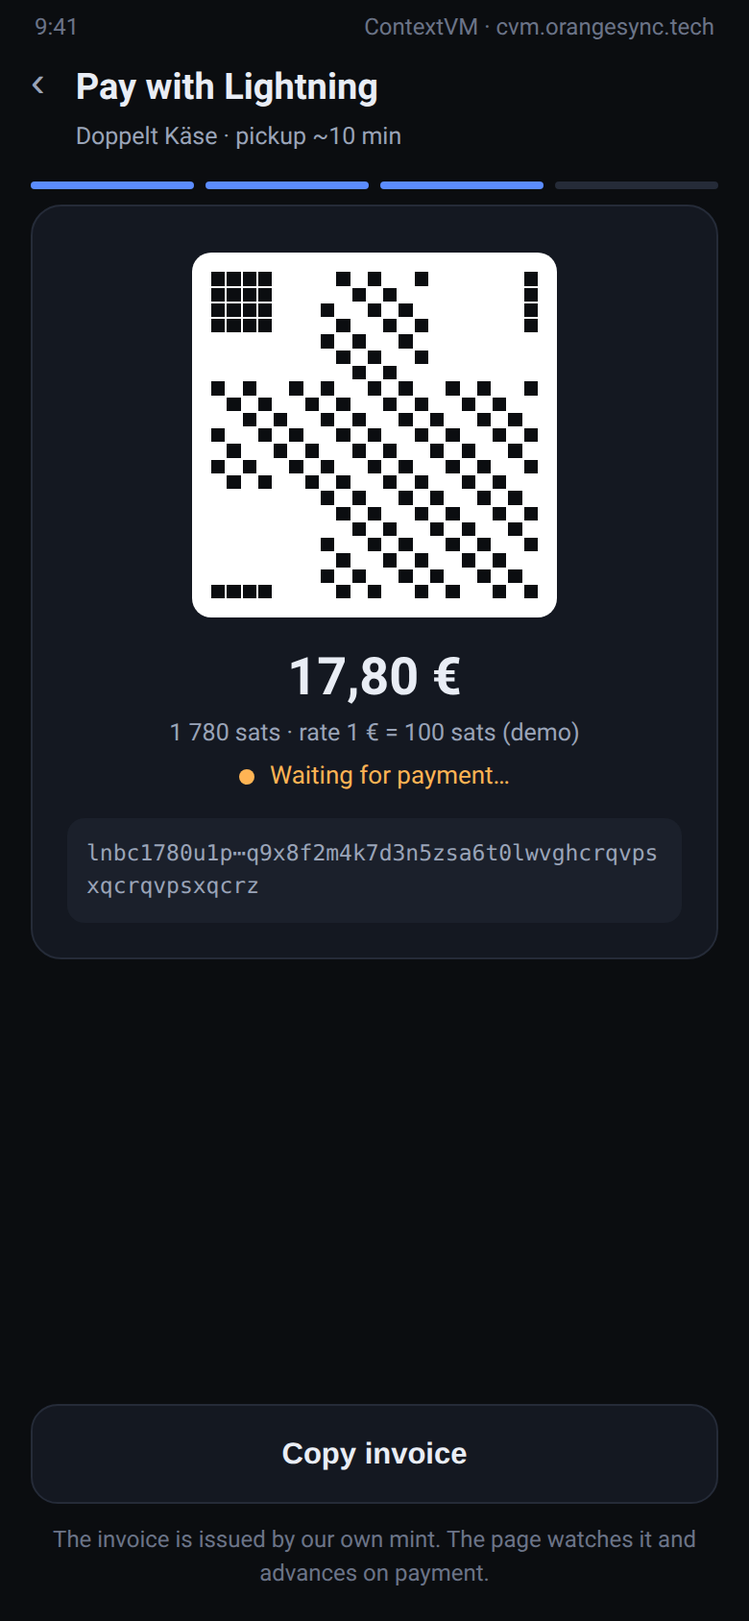
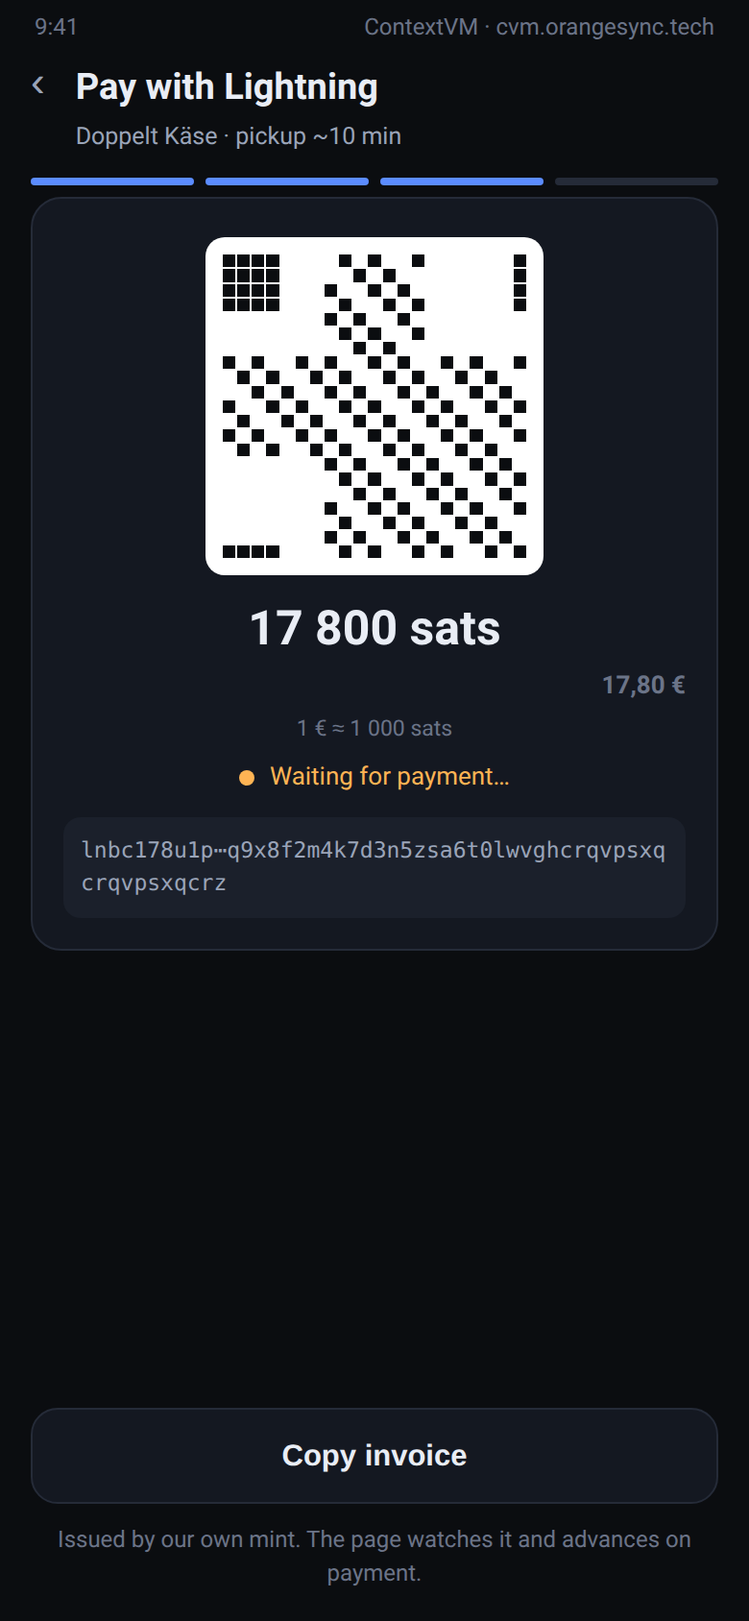
docs(ui): desktop mockup + sats-first pricing (operator decisions)
Two decisions from the operator, applied to the mockup before implementation:

1. Prices show BOTH amounts, SATS FIRST and the fiat second and smaller, everywhere
   a price appears - menu rows, basket lines, totals, the payment screen. One rate
   constant in one place, labelled "1 EUR ~ 1 000 sats". The venue's own EUR numbers
   stay the source of truth; the sats figure is a derived display of them.

2. A desktop layout, because the deployed page is read on both. The same flow as
   three panes: nav (services) / content (menu) / cart, and on the checkout screen
   cart / payment / what-happens-next. mockups-desktop.html, rendered by the same
   shot.sh at 1440x900 (2x).

Also fixed while rendering the desktop set: the helper was named `top`, and a
top-level `const top = ...` in a classic script throws "Identifier 'top' has already
been declared" (window.top is a non-configurable global). It failed SILENTLY - the
page was blank and the PNG was byte-identical for all three screens, which is how it
was caught. Renamed to `topbar` with a comment so it is not reintroduced.

shot.sh now renders all 9 screens in one run: 6 mobile + 3 desktop.

diff --git a/docs/ui-mockups/mockups-desktop.html b/docs/ui-mockups/mockups-desktop.html
@@ -1,0 +1,217 @@
+<!doctype html>
+<html lang="en"><head><meta charset="utf-8">
+<title>ContextVM services — usability mockup (desktop)</title>
+<style>
+  :root{
+    --bg:#0b0d10; --card:#141821; --card2:#1b202b; --line:#252b38; --rail:#0e1117;
+    --ink:#e9edf5; --dim:#9aa4b8; --dimmer:#6b7488;
+    --ok:#3ddc97; --warn:#ffb454; --accent:#5b8cff; --accent-ink:#fff;
+  }
+  *{box-sizing:border-box;-webkit-font-smoothing:antialiased}
+  html,body{margin:0;background:#05070a;color:var(--ink);
+    font:14.5px/1.5 -apple-system,BlinkMacSystemFont,"Segoe UI",Roboto,sans-serif}
+  .screen{width:1440px;height:900px;background:var(--bg);display:flex;flex-direction:column;overflow:hidden}
+  .top{height:52px;display:flex;align-items:center;gap:14px;padding:0 22px;border-bottom:1px solid var(--line);flex:none}
+  .brand{font-weight:700;letter-spacing:.2px}
+  .brand em{font-style:normal;color:var(--accent)}
+  .top .grow{flex:1}
+  .top .meta{color:var(--dimmer);font-size:12px}
+  .search{background:var(--card);border:1px solid var(--line);border-radius:9px;padding:8px 12px;color:var(--dim);font-size:13px;width:280px}
+  .btn{border:0;border-radius:10px;padding:10px 14px;font-size:13.5px;font-weight:600;background:var(--accent);color:#fff;cursor:default}
+  .btn.ghost{background:var(--card);border:1px solid var(--line);color:var(--ink)}
+  .btn.full{width:100%;padding:13px}
+  .panes{flex:1;display:flex;min-height:0}
+  .pane{border-right:1px solid var(--line);min-height:0;display:flex;flex-direction:column}
+  .pane:last-child{border-right:0}
+  .phead{padding:14px 18px 8px;flex:none}
+  .phead h2{margin:0;font-size:15px}
+  .phead .sub{color:var(--dimmer);font-size:12px;margin-top:2px}
+  .scroll{overflow:hidden;padding:0 12px 16px}
+  .srow{display:flex;align-items:center;gap:11px;padding:11px 9px;border-radius:11px;margin-bottom:4px}
+  .srow.on{background:var(--card);border:1px solid var(--line)}
+  .ico{width:34px;height:34px;border-radius:9px;background:var(--card2);display:flex;align-items:center;justify-content:center;font-size:17px;flex:none}
+  .grow{flex:1;min-width:0}
+  .name{font-weight:600;font-size:14px}
+  .oneline{color:var(--dim);font-size:12px;margin-top:1px;overflow:hidden;text-overflow:ellipsis;white-space:nowrap}
+  .pill{display:inline-block;font-size:10.5px;padding:2px 7px;border-radius:999px;background:var(--card2);color:var(--dim);border:1px solid var(--line);white-space:nowrap}
+  .pill.ok{color:var(--ok);border-color:#1f4736;background:#0f2a20}
+  .seg{display:flex;background:var(--card);border:1px solid var(--line);border-radius:10px;padding:3px;margin:2px 18px 10px}
+  .seg button{flex:1;border:0;background:none;color:var(--dim);padding:8px;border-radius:8px;font-size:13px;font-weight:600}
+  .seg button.on{background:var(--accent);color:var(--accent-ink)}
+  .cols{display:grid;grid-template-columns:1fr 1fr;gap:0 26px;padding:0 18px}
+  .item{display:flex;align-items:center;gap:12px;padding:9px 0;border-bottom:1px solid var(--line)}
+  .sats{font-variant-numeric:tabular-nums;font-weight:600;font-size:13.5px}
+  .fiat{font-size:11px;color:var(--dimmer);font-variant-numeric:tabular-nums;text-align:right;margin-top:1px}
+  .item.out .name,.item.out .sats,.item.out .fiat{color:var(--dimmer)}
+  .addplus{width:27px;height:27px;border-radius:999px;border:1px solid var(--line);background:var(--card2);color:var(--ink);font-size:15px;line-height:1;flex:none}
+  .cart{background:var(--rail);flex:none}
+  .line{display:flex;align-items:flex-start;gap:10px;padding:12px 18px;border-bottom:1px solid #1c2130}
+  .stepper{display:flex;align-items:center;gap:7px;background:var(--card2);border:1px solid var(--line);border-radius:999px;padding:2px 4px}
+  .stepper button{width:22px;height:22px;border-radius:999px;border:0;background:var(--accent);color:#fff;font-size:14px;line-height:1}
+  .stepper .q{min-width:12px;text-align:center;font-weight:600;font-size:13px}
+  .totalrow{display:flex;justify-content:space-between;align-items:baseline;padding:11px 18px;border-bottom:1px solid #1c2130;font-size:13px;color:var(--dim)}
+  .totalrow b{color:var(--ink);font-weight:600}
+  .grand{font-size:19px}
+  .warnbox{background:#1d1b12;border:1px solid #3a3420;color:#e8d9a8;border-radius:10px;padding:10px 12px;font-size:12px;margin:12px 18px}
+  .foot{padding:14px 18px;flex:none}
+  .hint{color:var(--dimmer);font-size:11.5px;text-align:center;margin-top:8px}
+  .paycard{background:var(--card);border:1px solid var(--line);border-radius:16px;padding:22px;text-align:center;margin:0 18px}
+  .qr{width:206px;height:206px;margin:0 auto 14px;background:#fff;border-radius:10px;display:grid;
+    grid-template-columns:repeat(21,1fr);grid-template-rows:repeat(21,1fr);padding:10px;gap:1px}
+  .qr i{background:#fff}.qr i.on{background:#0b0d10}
+  .amount{font-size:30px;font-weight:700;font-variant-numeric:tabular-nums}
+  .amount .fiat{font-size:14px;margin-top:2px}
+  .rate{color:var(--dimmer);font-size:12px;margin-top:4px}
+  .state{display:inline-flex;align-items:center;gap:8px;color:var(--warn);font-size:13px;margin-top:12px;background:#201a10;border:1px solid #3a3420;border-radius:999px;padding:6px 12px}
+  .dot{width:8px;height:8px;border-radius:999px;background:var(--warn)}
+  .invoice{font:11.5px/1.6 ui-monospace,Menlo,monospace;color:var(--dim);background:var(--card2);border-radius:9px;padding:10px;margin-top:14px;word-break:break-all;text-align:left}
+  .steps{display:flex;gap:6px;margin:0 18px 14px}
+  .steps i{flex:1;height:4px;border-radius:2px;background:var(--line)}
+  .steps i.done{background:var(--accent)}
+  .kv{display:flex;justify-content:space-between;gap:14px;padding:9px 0;border-bottom:1px solid #1c2130;font-size:12.5px}
+  .kv span{color:var(--dimmer)} .kv b{font-weight:500;color:var(--dim);text-align:right;max-width:64%;word-break:break-all}
+  .check{width:64px;height:64px;border-radius:999px;background:#0f2a20;border:2px solid var(--ok);color:var(--ok);
+    font-size:30px;display:flex;align-items:center;justify-content:center}
+  h1.big{font-size:25px;margin:14px 0 4px}
+</style></head><body>
+<div class="screen" id="screen"></div>
+<script>
+const SATS_PER_EUR = 1000;
+const rate = '1 € ≈ 1 000 sats';
+const fmtE = n => n.toFixed(2).replace('.', ',') + ' €';
+const fmtS = n => Math.round(n * SATS_PER_EUR).toLocaleString('de-DE').replace(/\./g,' ') + ' sats';
+const price = e => `<div><div class="sats">${fmtS(e)}</div><div class="fiat">${fmtE(e)}</div></div>`;
+const qr = () => { let s='<div class="qr">';
+  const m=[[0,0],[0,20],[20,0],[0,1],[1,0],[1,1],[19,20],[20,19],[20,20],[19,19],[1,20],[20,1]];
+  const on=new Set(); for(const [x,y] of m){for(let a=0;a<3;a++)for(let b=0;b<3;b++){on.add((x+a)+','+(y+b));}}
+  for(let y=0;y<21;y++)for(let x=0;x<21;x++){
+    const core=(x<7&&y<7)||(x>13&&y<7)||(x<7&&y>13);
+    s += core ? (on.has(x+','+y)?"<i class='on'></i>":"<i></i>") : (((x*7+y*13)%5<2)?"<i class='on'></i>":"<i></i>");
+  } return s+'</div>'; };
+
+const services = [
+  {i:'🍔',n:'Doppelt Käse',s:'Burgers · pickup or delivery · Berlin',t:'orderable',on:1},
+  {i:'🍕',n:'Pizza e Pasta',s:'Pizza · pickup · Berlin',t:'orderable'},
+  {i:'💬',n:'nosms',s:'Send an SMS · pay per message',t:'2 900 sats'},
+  {i:'⚙',n:'cvm-lambda',s:'Run code in a sandbox · pay per call',t:'2 000 sats'},
+];
+const menu = [
+  ['Cheeseburger',8.9,1],['Der Doppelt Käse-Burger',10.9,1],['Beyond Meat-Burger',9.9,1],
+  ['Sweet Dreams',7.2,1],['Hamburger',7.9,1],['Onion Rings 12 Stück',9.0,1],
+  ['Curly Fries',4.5,1],['Parmesan Pommes frites',6.8,1],['Chicken Fingers 6 Stück',6.5,0],
+  ['Potato Tots',5.5,0],['Burgersoße',0.9,1],['Club Mate 0,33 l',2.9,1],
+  ['Käsesoße',2.7,1],['Vio Still 0,5 l',2.3,1],
+];
+/* NOTE: do not name this `top` — a top-level `const top = …` in a classic script
+   throws "Identifier 'top' has already been declared" (window.top is a
+   non-configurable global), which silently blanks the whole page. */
+const topbar = () => `<div class="top"><span class="brand">Context<em>VM</em></span>
+  <span class="search">Search services…</span>
+  <button class="btn ghost">Filters</button>
+  <span class="grow"></span>
+  <span class="meta">cache, not proxy · snapshot 22:52:59Z · 4 services</span></div>`;
+
+const D = {
+1: () => `${topbar()}<div class="panes">
+  <div class="pane" style="width:330px">
+    <div class="phead"><h2>Services</h2><div class="sub">4 available</div></div>
+    <div class="scroll">${services.map(v=>`<div class="srow ${v.on?'on':''}"><div class="ico">${v.i}</div>
+      <div class="grow"><div class="name">${v.n}</div><div class="oneline">${v.s}</div></div>
+      ${v.t?`<span class="pill ${v.t==='orderable'?'ok':''}">${v.t}</span>`:''}</div>`).join('')}</div>
+  </div>
+  <div class="pane grow">
+    <div class="phead"><h2>Doppelt Käse <span class="pill ok">pickup 10 min</span></h2>
+      <div class="sub">Burgers · Laubacher Str. 16 · prices are the venue's own</div></div>
+    <div class="seg"><button class="on">Pickup</button><button>Delivery</button></div>
+    <div class="cols">${menu.map(([n,p,av])=>`<div class="item ${av?'':'out'}"><div class="grow"><div class="name">${n}</div></div>
+      ${price(p)}${av?`<button class="addplus">+</button>`:`<span class="pill">sold out</span>`}</div>`).join('')}</div>
+    <div class="foot"><div class="hint">${rate} · 76 items · pay on the venue's site</div></div>
+  </div>
+  <div class="pane cart" style="width:350px">
+    <div class="phead"><h2>Your order</h2><div class="sub">Doppelt Käse · pickup ~10 min</div></div>
+    <div class="line"><div class="ico">🍔</div><div class="grow"><div class="name">Cheeseburger</div>
+      <div class="oneline">extra cheese · no onions</div><div class="fiat" style="text-align:left">8 900 sats · 8,90 €</div></div>
+      <div class="stepper"><button>−</button><span class="q">2</span><button>+</button></div></div>
+    <div class="line"><div class="ico">🍟</div><div class="grow"><div class="name">Curly Fries</div>
+      <div class="fiat" style="text-align:left">4 500 sats · 4,50 €</div></div>
+      <div class="stepper"><button>−</button><span class="q">1</span><button>+</button></div></div>
+    <div class="totalrow"><span>Subtotal</span><b>17 800 sats · 17,80 €</b></div>
+    <div class="totalrow"><span>Rate</span><b>${rate}</b></div>
+    <div class="totalrow" style="border:0"><span style="color:var(--ink)">Total</span><b class="grand">17 800 sats</b></div>
+    <div class="warnbox">This venue takes payment on its own page. The next step hands you over with the basket above.</div>
+    <div class="foot" style="margin-top:auto"><button class="btn full">Continue to Doppelt Käse</button>
+      <div class="hint">Nothing is charged here.</div></div>
+  </div>
+</div>`,
+2: () => `${topbar()}<div class="panes">
+  <div class="pane" style="width:360px">
+    <div class="phead"><h2>Doppelt Käse</h2><div class="sub">pickup ~10 min · Laubacher Str. 16</div></div>
+    <div class="line"><div class="ico">🍔</div><div class="grow"><div class="name">Cheeseburger ×2</div>
+      <div class="fiat" style="text-align:left">17 800 sats · 17,80 €</div></div></div>
+    <div class="line"><div class="ico">🍟</div><div class="grow"><div class="name">Curly Fries ×1</div>
+      <div class="fiat" style="text-align:left">4 500 sats · 4,50 €</div></div></div>
+    <div class="totalrow"><span>Subtotal</span><b>22 300 sats</b></div>
+    <div class="totalrow"><span>Invoice</span><b>17 800 sats</b></div>
+    <div class="totalrow" style="border:0"><span style="color:var(--ink)">Payable now</span><b class="grand">17 800 sats</b></div>
+    <div class="warnbox">Issued only if the venue's trust proof checks out. One invoice per order — a second attempt with the same proof is refused.</div>
+  </div>
+  <div class="pane grow">
+    <div class="phead"><h2>Pay with Lightning</h2><div class="sub">waiting for payment · the page watches the mint, not the screen</div></div>
+    <div class="steps"><i class="done"></i><i class="done"></i><i class="done"></i><i></i></div>
+    <div class="paycard">${qr()}
+      <div class="amount">17 800 sats<div class="fiat">17,80 €</div></div>
+      <div class="rate">${rate} · quote held 15 min</div>
+      <div class="state"><span class="dot"></span>Waiting for payment…</div>
+      <div class="invoice">lnbc178u1p⋯q9x8f2m4k7d3n5zsa6t0lwvghcrqvpsxqcrqvpsxqcrz</div>
+    </div>
+    <div class="foot"><button class="btn full ghost">Copy invoice</button>
+      <div class="hint">Real BOLT11 from our own mint. The order advances only when the mint reports PAID.</div></div>
+  </div>
+  <div class="pane cart" style="width:300px">
+    <div class="phead"><h2>What happens next</h2></div>
+    <div class="line"><div class="grow"><div class="name">1 · Pay the invoice</div><div class="oneline">Any Lightning wallet.</div></div></div>
+    <div class="line"><div class="grow"><div class="name">2 · Order is placed</div><div class="oneline">On payment, we place it with the venue.</div></div></div>
+    <div class="line"><div class="grow"><div class="name">3 · Proof at the counter</div><div class="oneline">Order id + pickup time.</div></div></div>
+    <div class="totalrow" style="border:0;margin-top:auto"><span>Cap declared</span><b>0 sats</b></div>
+    <div class="warnbox" style="margin-top:0">Declared price is a call price, not a settlement claim. This venue is not declared Lightning-payable.</div>
+  </div>
+</div>`,
+3: () => `${topbar()}<div class="panes">
+  <div class="pane" style="width:430px">
+    <div class="phead"></div>
+    <div style="padding:0 18px">
+      <div class="check">✓</div>
+      <h1 class="big">Paid — order placed</h1>
+      <div class="sub" style="color:var(--dim)">Doppelt Käse · pickup ~10 min</div>
+      <div class="line" style="border-top:1px solid #1c2130"><div class="ico">🧾</div><div class="grow">
+        <div class="name">Order 7K2M-441</div><div class="oneline">17 800 sats · 17,80 €</div></div>
+        <span class="pill ok">paid</span></div>
+      <div class="line"><div class="ico">📍</div><div class="grow"><div class="name">Laubacher Str. 16, 14197 Berlin</div>
+        <div class="oneline">Show this screen at the counter</div></div></div>
+      <div class="warnbox">Receipt and cancellation terms: see Details.</div>
+    </div>
+    <div class="foot" style="margin-top:auto"><button class="btn full ghost">Back to services</button>
+      <div class="hint">Rated the order? A review helps the next customer.</div></div>
+  </div>
+  <div class="pane grow">
+    <div class="phead"><h2>Details</h2><div class="sub">everything that used to be on the card</div></div>
+    <div style="padding:0 18px">
+      <div class="kv"><span>Announcement</span><b>kind 11317 · CEP-6 · 2 announcements (server + tools)</b></div>
+      <div class="kv"><span>Class</span><b>meatspace / restaurant</b></div>
+      <div class="kv"><span>Service id</span><b>doppelt-kaese-berlin</b></div>
+      <div class="kv"><span>Announced</span><b>2026-10-07T20:57:10Z</b></div>
+      <div class="kv"><span>Geohash</span><b>u336, u336x0, u336x058</b></div>
+      <div class="kv"><span>Curator</span><b>npub1lecq5zgff9gxvqrhg3a7m48qkw4uzj5za9fz0vcn46lc8dme3xzq9klwgp</b></div>
+      <div class="kv"><span>Signer</span><b>fe700a09094950660077447bedd4e0b3abc14a82e95227b313aebf83b7798984</b></div>
+      <div class="kv"><span>Input appetite</span><b>required: contact.phone, order.fulfilment, order.items, order.when · optional: contact.name, order.notes, ship.address</b></div>
+      <div class="kv"><span>Settlement</span><b>venue's own rail (FoodAmigos: Adyen/Stripe/PayPal/cash) · cvm cap 0 sats</b></div>
+      <div class="kv"><span>Rate used</span><b>${rate}</b></div>
+      <div class="kv" style="border:0"><span>Order id</span><b>7K2M-441 · paid 17 800 sats</b></div>
+      <div class="warnbox">Declared by the provider in its own signed announcement — a declaration, not an audited fact. The page is a static cache; it never opens a relay connection and never makes a per-service CVM call.</div>
+    </div>
+  </div>
+</div>`,
+};
+const want = new URLSearchParams(location.search).get('s') || '1';
+document.getElementById('screen').innerHTML = (D[want] || D['1'])();
+</script></body></html>

diff --git a/docs/ui-mockups/mockups.html b/docs/ui-mockups/mockups.html
@@ -1,6 +1,6 @@
 <!doctype html>
 <html lang="en"><head><meta charset="utf-8">
-<title>ContextVM services — usability mockup</title>
+<title>ContextVM services — usability mockup (mobile)</title>
 <style>
   :root{
     --bg:#0b0d10; --card:#141821; --card2:#1b202b; --line:#252b38;
@@ -23,7 +23,6 @@
   .filters b{color:var(--ink);font-weight:600}
   .row{display:flex;align-items:center;gap:12px;background:var(--card);border:1px solid var(--line);
     border-radius:14px;padding:14px;margin-bottom:10px}
-  .row:active{background:var(--card2)}
   .ico{width:38px;height:38px;border-radius:10px;background:var(--card2);display:flex;align-items:center;
     justify-content:center;font-size:19px;flex:none}
   .row .grow{flex:1;min-width:0}
@@ -35,17 +34,18 @@
   .pill.ok{color:var(--ok);border-color:#1f4736;background:#0f2a20}
   .pill.quiet{color:var(--dimmer)}
   .note{color:var(--dimmer);font-size:11.5px;text-align:center;margin:6px 0 14px}
-  /* menu */
   .mhead{display:flex;align-items:flex-start;gap:12px;margin:4px 0 12px}
   .back{border:0;background:none;color:var(--dim);font-size:22px;padding:0 4px 0 0;line-height:1}
   .seg{display:flex;background:var(--card);border:1px solid var(--line);border-radius:11px;padding:3px;margin-bottom:12px}
   .seg button{flex:1;border:0;background:none;color:var(--dim);padding:9px;border-radius:9px;font-size:13.5px;font-weight:600}
   .seg button.on{background:var(--accent);color:var(--accent-ink)}
-  .item{display:flex;align-items:center;gap:12px;padding:13px 2px;border-bottom:1px solid var(--line)}
+  .item{display:flex;align-items:center;gap:12px;padding:12px 2px;border-bottom:1px solid var(--line)}
   .item .grow{flex:1;min-width:0}
-  .price{font-variant-numeric:tabular-nums;font-weight:600;font-size:14.5px;color:var(--ink)}
-  .item.out .name,.item.out .price{color:var(--dimmer)}
-  .item.out{border-bottom-color:#1c2130}
+  /* SATS FIRST, fiat second and smaller — everywhere a price is shown */
+  .sats{font-variant-numeric:tabular-nums;font-weight:600;font-size:14.5px;color:var(--ink);direction:rtl}
+  .sats small{font-weight:400;font-size:11px;color:var(--dimmer);direction:ltr}
+  .fiat{font-size:11.5px;color:var(--dimmer);font-variant-numeric:tabular-nums;text-align:right;margin-top:1px}
+  .item.out .name,.item.out .sats,.item.out .fiat{color:var(--dimmer)}
   .stepper{display:flex;align-items:center;gap:8px;background:var(--card2);border:1px solid var(--line);
     border-radius:999px;padding:3px 5px}
   .stepper button{width:26px;height:26px;border-radius:999px;border:0;background:var(--accent);color:#fff;font-size:16px;line-height:1}
@@ -53,37 +53,41 @@
   .addplus{width:30px;height:30px;border-radius:999px;border:1px solid var(--line);background:var(--card2);
     color:var(--ink);font-size:17px;line-height:1;flex:none}
   .bar{position:absolute;left:16px;right:16px;bottom:16px;background:var(--accent);color:#fff;border-radius:14px;
-    padding:15px 16px;display:flex;align-items:center;justify-content:space-between;font-weight:600;box-shadow:0 8px 24px #000a}
-  .bar.ghost{background:var(--card);color:var(--ink);border:1px solid var(--line);box-shadow:none;font-weight:500}
-  .cta{width:100%;border:0;border-radius:14px;padding:16px;font-size:15.5px;font-weight:600;background:var(--accent);color:#fff}
+    padding:13px 16px;display:flex;align-items:center;justify-content:space-between;font-weight:600;box-shadow:0 8px 24px #000a}
+  .bar .fiat{color:#dbe4ff}
+  .cta{width:100%;border:0;border-radius:14px;padding:15px;font-size:15.5px;font-weight:600;background:var(--accent);color:#fff}
   .cta.ghost{background:var(--card);color:var(--ink);border:1px solid var(--line)}
-  /* details sheet */
-  .sheet{position:absolute;left:0;right:0;bottom:0;background:var(--card);border-top:1px solid var(--line);
-    border-radius:18px 18px 0 0;padding:16px}
   .kv{display:flex;justify-content:space-between;gap:12px;padding:7px 0;border-bottom:1px solid #1c2130;font-size:12.5px}
   .kv span{color:var(--dimmer)} .kv b{font-weight:500;color:var(--dim);text-align:right;max-width:62%;word-break:break-all}
   .warnbox{background:#1d1b12;border:1px solid #3a3420;color:#e8d9a8;border-radius:11px;padding:11px;font-size:12px;margin:10px 0}
-  /* pay */
-  .paybox{background:var(--card);border:1px solid var(--line);border-radius:16px;padding:18px;text-align:center;margin-top:8px}
-  .qr{width:190px;height:190px;margin:6px auto 12px;background:#fff;border-radius:10px;display:grid;
-    grid-template-columns:repeat(21,1fr);grid-template-rows:repeat(21,1fr);padding:10px;gap:1px}
+  .paybox{background:var(--card);border:1px solid var(--line);border-radius:16px;padding:16px;text-align:center;margin-top:6px}
+  .qr{width:176px;height:176px;margin:4px auto 10px;background:#fff;border-radius:10px;display:grid;
+    grid-template-columns:repeat(21,1fr);grid-template-rows:repeat(21,1fr);padding:9px;gap:1px}
   .qr i{background:#fff} .qr i.on{background:#0b0d10}
-  .amount{font-size:27px;font-weight:700;font-variant-numeric:tabular-nums}
-  .state{display:flex;align-items:center;justify-content:center;gap:8px;color:var(--warn);font-size:13px;margin-top:4px}
-  .dot{width:8px;height:8px;border-radius:999px;background:var(--warn);animation:none}
+  .amount{font-size:25px;font-weight:700;font-variant-numeric:tabular-nums}
+  .amount .fiat{font-size:13px;margin-top:2px}
+  .rate{color:var(--dimmer);font-size:11.5px;margin-top:4px}
+  .state{display:flex;align-items:center;justify-content:center;gap:8px;color:var(--warn);font-size:13px;margin-top:8px}
+  .dot{width:8px;height:8px;border-radius:999px;background:var(--warn)}
   .invoice{font:11.5px/1.5 ui-monospace,Menlo,monospace;color:var(--dim);background:var(--card2);border-radius:9px;
-    padding:10px;margin-top:12px;word-break:break-all;text-align:left}
-  .check{width:76px;height:76px;border-radius:999px;background:#0f2a20;border:2px solid var(--ok);color:var(--ok);
-    font-size:38px;display:flex;align-items:center;justify-content:center;margin:24px auto 14px}
+    padding:9px;margin-top:11px;word-break:break-all;text-align:left}
+  .check{width:70px;height:70px;border-radius:999px;background:#0f2a20;border:2px solid var(--ok);color:var(--ok);
+    font-size:34px;display:flex;align-items:center;justify-content:center;margin:18px auto 12px}
   .center{text-align:center}
-  .steps{display:flex;gap:6px;margin:14px 0 4px}
+  .steps{display:flex;gap:6px;margin:12px 0 4px}
   .steps i{flex:1;height:4px;border-radius:2px;background:var(--line)}
   .steps i.done{background:var(--accent)}
   .hint{color:var(--dimmer);font-size:12px;margin-top:10px;text-align:center}
 </style></head><body>
 <div class="screen" id="screen"></div>
 <script>
-const KB = i => i % 2 === 0 ? "<i class='on'></i>" : "<i></i>";
+/* One rate, one place. Prices are always SATS FIRST, the fiat second and smaller. */
+const SATS_PER_EUR = 1000;
+const rate = '1 € ≈ 1 000 sats';
+const fmtE = n => n.toFixed(2).replace('.', ',') + ' €';
+const fmtS = n => Math.round(n * SATS_PER_EUR).toLocaleString('de-DE').replace(/\./g, ' ') + ' sats';
+const price = e => `<div><div class="sats">${fmtS(e)}</div><div class="fiat">${fmtE(e)}</div></div>`;
+
 const qr = () => { let s='<div class="qr">';
   const m=[[0,0],[0,20],[20,0],[0,1],[1,0],[1,1],[19,20],[20,19],[20,20],[19,19],[1,20],[20,1]];
   const on=new Set(); for(const [x,y] of m){for(let a=0;a<3;a++)for(let b=0;b<3;b++){on.add((x+a)+','+(y+b));}}
@@ -98,13 +102,13 @@ const status = () => `<div class="status"><span>9:41</span><span>ContextVM · cv
 const services = [
   {i:'🍔', n:'Doppelt Käse', s:'Burgers · pickup or delivery · Berlin', t:'orderable'},
   {i:'🍕', n:'Pizza e Pasta', s:'Pizza · pickup · Berlin', t:'orderable'},
-  {i:'💬', n:'nosms', s:'Send an SMS · pay per message', t:'pay 2 900 sats'},
-  {i:'⚙', n:'cvm-lambda', s:'Run code in a sandbox · pay per call', t:''},
+  {i:'💬', n:'nosms', s:'Send an SMS · pay per message', t:'2 900 sats'},
+  {i:'⚙', n:'cvm-lambda', s:'Run code in a sandbox · pay per call', t:'2 000 sats'},
 ];
 const menu = [
   ['Cheeseburger',8.9,1],['Curly Fries',4.5,1],['Der Doppelt Käse-Burger',10.9,1],
   ['Parmesan Pommes frites',6.8,1],['Beyond Meat-Burger',9.9,1],['Sweet Dreams',7.2,1],
-  ['Chicken Fingers 6 Stück',6.5,0],['POTATO TOTS',5.5,0],['Hamburger',7.9,1],
+  ['Chicken Fingers 6 Stück',6.5,0],['Potato Tots',5.5,0],['Hamburger',7.9,1],
   ['Onion Rings 12 Stück',9.0,1],['Burgersoße',0.9,1],['Club Mate 0,33 l',2.9,1],
 ];
 
@@ -123,11 +127,11 @@ const S = {
     <div class="oneline" style="margin-top:3px">Burgers · Laubacher Str. · <span class="pill ok">pickup 10 min</span></div></div></div>
   <div class="seg"><button class="on">Pickup</button><button>Delivery</button></div>
   ${menu.map(([n,p,av])=>`<div class="item ${av?'':'out'}"><div class="grow"><div class="name">${n}</div></div>
-    <div class="price">${p.toFixed(2).replace('.',',')} €</div>
+    ${price(p)}
     ${av?`<button class="addplus">+</button>`:`<span class="pill quiet">sold out</span>`}</div>`).join('')}
-  <div class="note">Prices are the venue's own. Pay on the venue's site.</div>
+  <div class="note">Prices are the venue's own. ${rate}. Pay on the venue's site.</div>
   </div>
-  <div class="bar"><span>Basket · 2 items</span><span>17,80 € ›</span></div>`,
+  <div class="bar"><span>Basket · 2 items<div class="fiat">17,80 €</div></span><span>17 800 sats ›</span></div>`,
 3: () => `${status()}<div class="body">
   <div class="mhead"><button class="back">‹</button><div class="grow"><h1 style="font-size:19px;margin:0">Your order</h1>
     <div class="oneline" style="margin-top:3px">Doppelt Käse · pickup ~10 min</div></div></div>
@@ -136,32 +140,33 @@ const S = {
     <div class="stepper"><button>−</button><span class="q">2</span><button>+</button></div></div>
   <div class="row"><div class="ico">🍟</div><div class="grow"><div class="name">Curly Fries</div></div>
     <div class="stepper"><button>−</button><span class="q">1</span><button>+</button></div></div>
-  <div class="kv" style="margin-top:16px"><span>Subtotal</span><b>17,80 €</b></div>
+  <div class="kv" style="margin-top:14px"><span>Subtotal</span><b>17 800 sats · 17,80 €</b></div>
+  <div class="kv"><span>Rate</span><b>${rate}</b></div>
   <div class="kv"><span>Venue's own rail</span><b>card · cash</b></div>
-  <div class="kv" style="border:0"><span style="color:var(--ink);font-size:15px">Total</span><b style="color:var(--ink);font-size:17px">17,80 €</b></div>
+  <div class="kv" style="border:0"><span style="color:var(--ink);font-size:15px">Total</span><b style="color:var(--ink);font-size:16px">17 800 sats</b></div>
   <div class="warnbox">This venue takes payment on its own page. Next step hands you over with the basket above.</div>
   </div>
-  <div style="padding:0 16px 16px"><button class="cta">Continue to Doppelt Käse · 17,80 €</button>
+  <div style="padding:0 16px 16px"><button class="cta">Continue to Doppelt Käse<div style="font-size:12px;font-weight:400;color:#dbe4ff">17 800 sats · 17,80 €</div></button>
   <div class="hint">Nothing is charged here.</div></div>`,
 4: () => `${status()}<div class="body">
   <div class="mhead"><button class="back">‹</button><div class="grow"><h1 style="font-size:19px;margin:0">Pay with Lightning</h1>
     <div class="oneline" style="margin-top:3px">Doppelt Käse · pickup ~10 min</div></div></div>
   <div class="steps"><i class="done"></i><i class="done"></i><i class="done"></i><i></i></div>
   <div class="paybox">${qr()}
-    <div class="amount">17,80 €</div>
-    <div style="color:var(--dim);font-size:12.5px">1 780 sats · rate 1 € = 100 sats (demo)</div>
+    <div class="amount">17 800 sats<div class="fiat">17,80 €</div></div>
+    <div class="rate">${rate}</div>
     <div class="state"><span class="dot"></span>Waiting for payment…</div>
-    <div class="invoice">lnbc1780u1p⋯q9x8f2m4k7d3n5zsa6t0lwvghcrqvpsxqcrqvpsxqcrz</div>
+    <div class="invoice">lnbc178u1p⋯q9x8f2m4k7d3n5zsa6t0lwvghcrqvpsxqcrqvpsxqcrz</div>
   </div>
   </div>
   <div style="padding:0 16px 16px"><button class="cta ghost">Copy invoice</button>
-  <div class="hint">The invoice is issued by our own mint. The page watches it and advances on payment.</div></div>`,
+  <div class="hint">Issued by our own mint. The page watches it and advances on payment.</div></div>`,
 5: () => `${status()}<div class="body"><div class="center">
   <div class="check">✓</div>
   <h1 style="margin:0">Paid — order placed</h1>
   <div class="sub" style="margin-top:6px">Doppelt Käse · pickup ~10 min</div>
   <div class="row" style="text-align:left"><div class="ico">🧾</div><div class="grow">
-    <div class="name">Order 7K2M-441</div><div class="oneline">17,80 € paid · 1 780 sats</div></div>
+    <div class="name">Order 7K2M-441</div><div class="oneline">17 800 sats · 17,80 €</div></div>
     <span class="pill ok">paid</span></div>
   <div class="row" style="text-align:left"><div class="ico">📍</div><div class="grow">
     <div class="name">Laubacher Str. 16, 14197 Berlin</div><div class="oneline">Show this screen at the counter</div></div></div>
@@ -181,6 +186,7 @@ const S = {
   <div class="kv"><span>Signer</span><b>fe700a09…b7798984</b></div>
   <div class="kv"><span>Input appetite</span><b>contact.phone, order.fulfilment, order.items, order.when</b></div>
   <div class="kv"><span>Settlement</span><b>venue's own rail · cap 0 sats</b></div>
+  <div class="kv"><span>Rate used</span><b>${rate}</b></div>
   <div class="warnbox">Declared by the provider in its own signed announcement. A declaration, not an audited fact. The page is a static cache; it never contacts a relay.</div>
   </div>`,
 };
